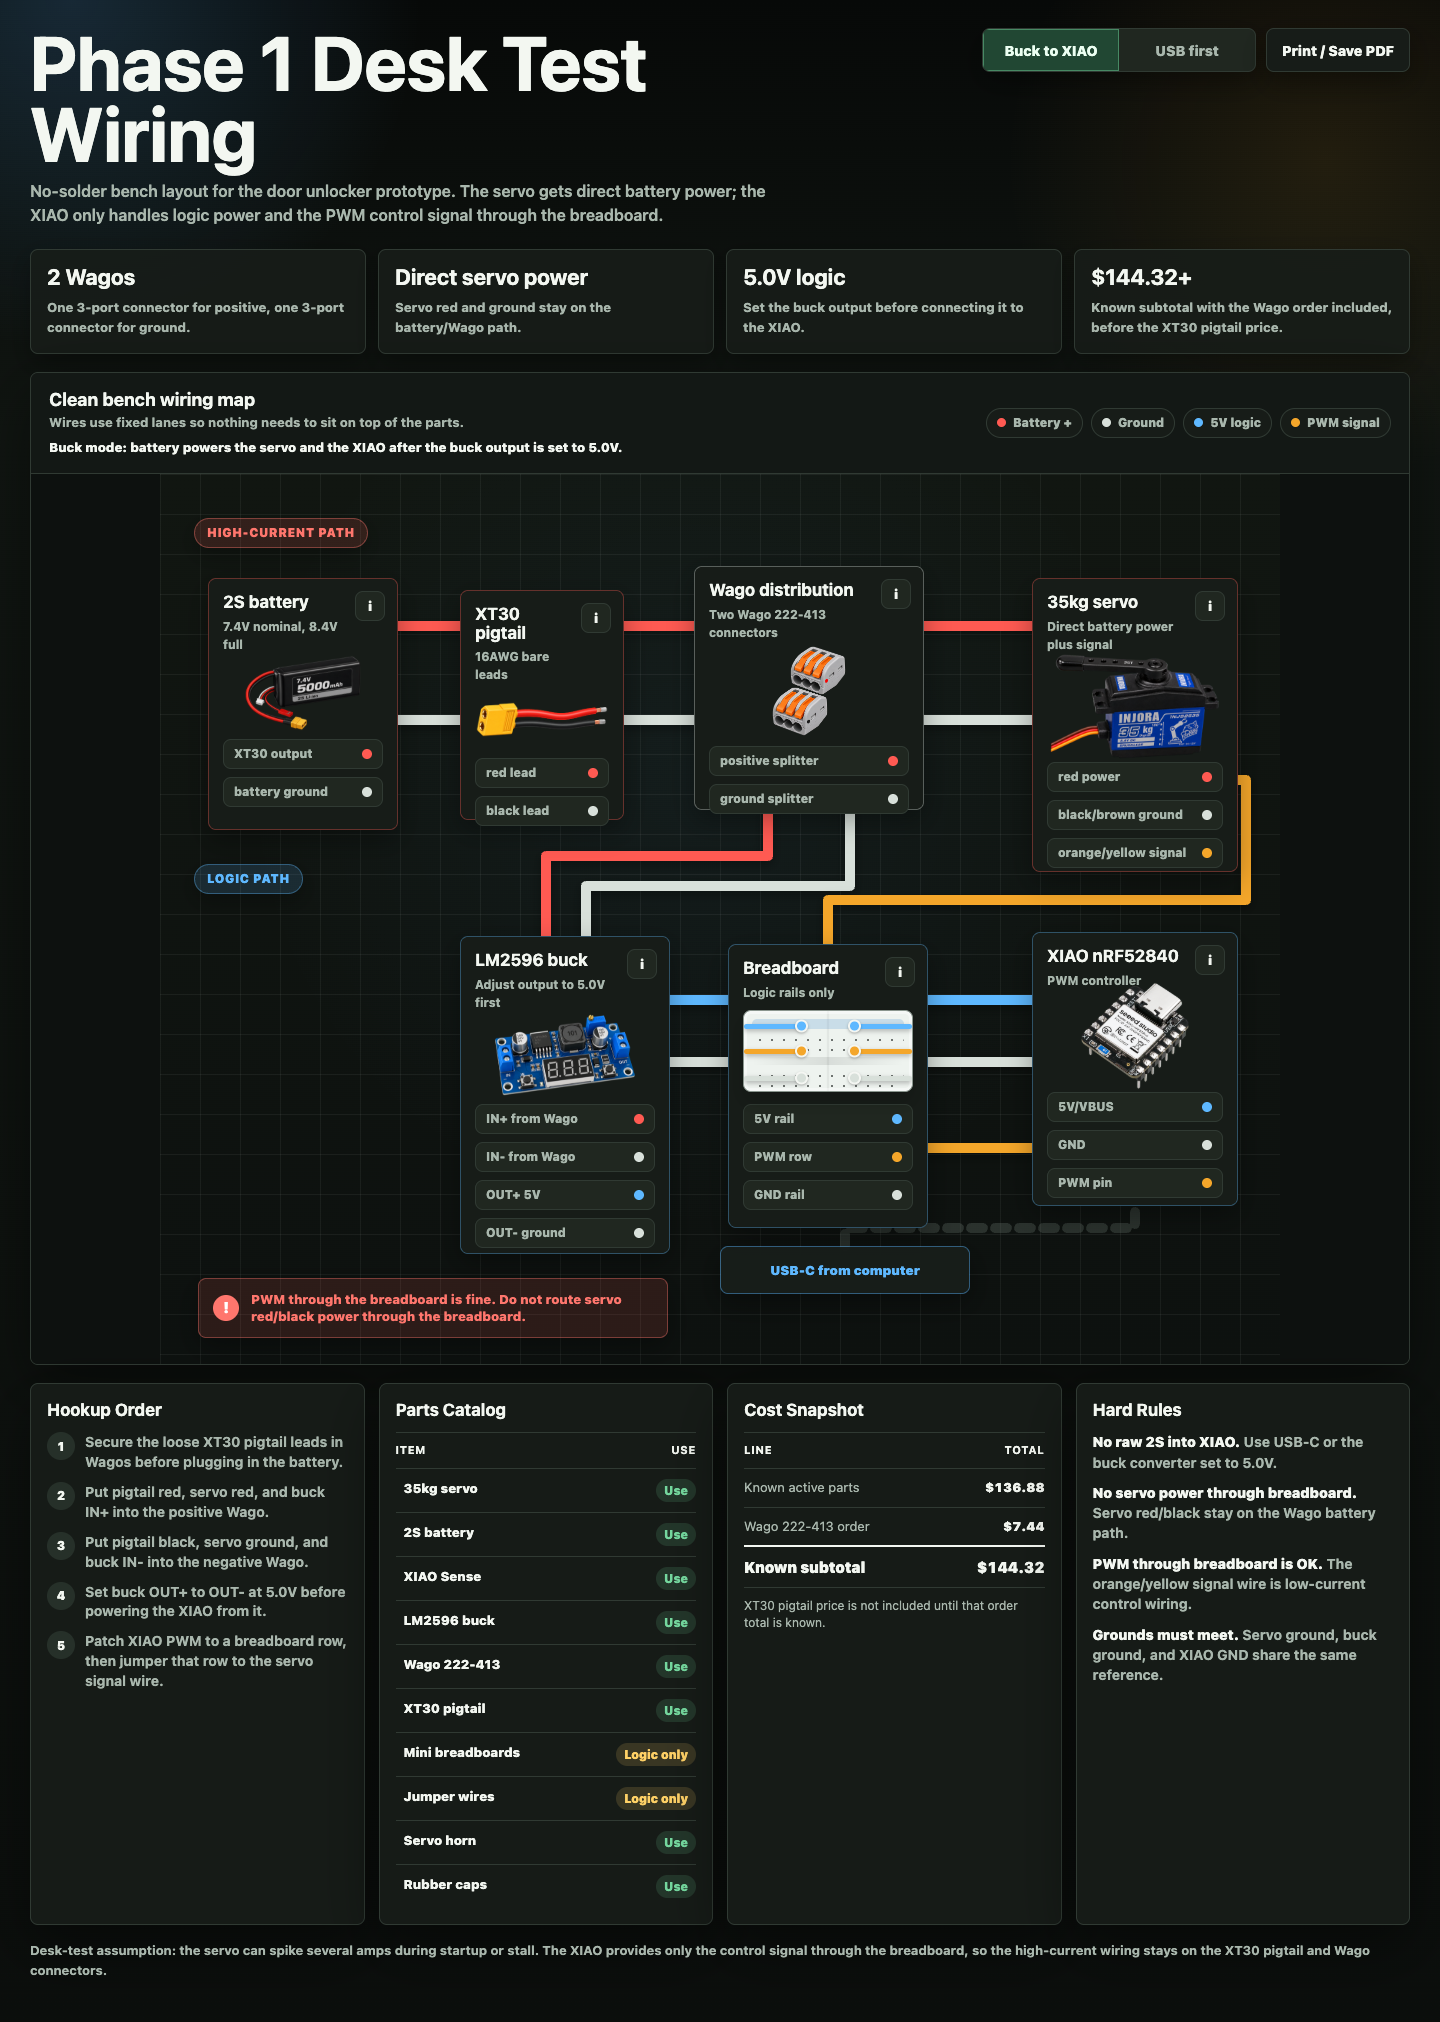
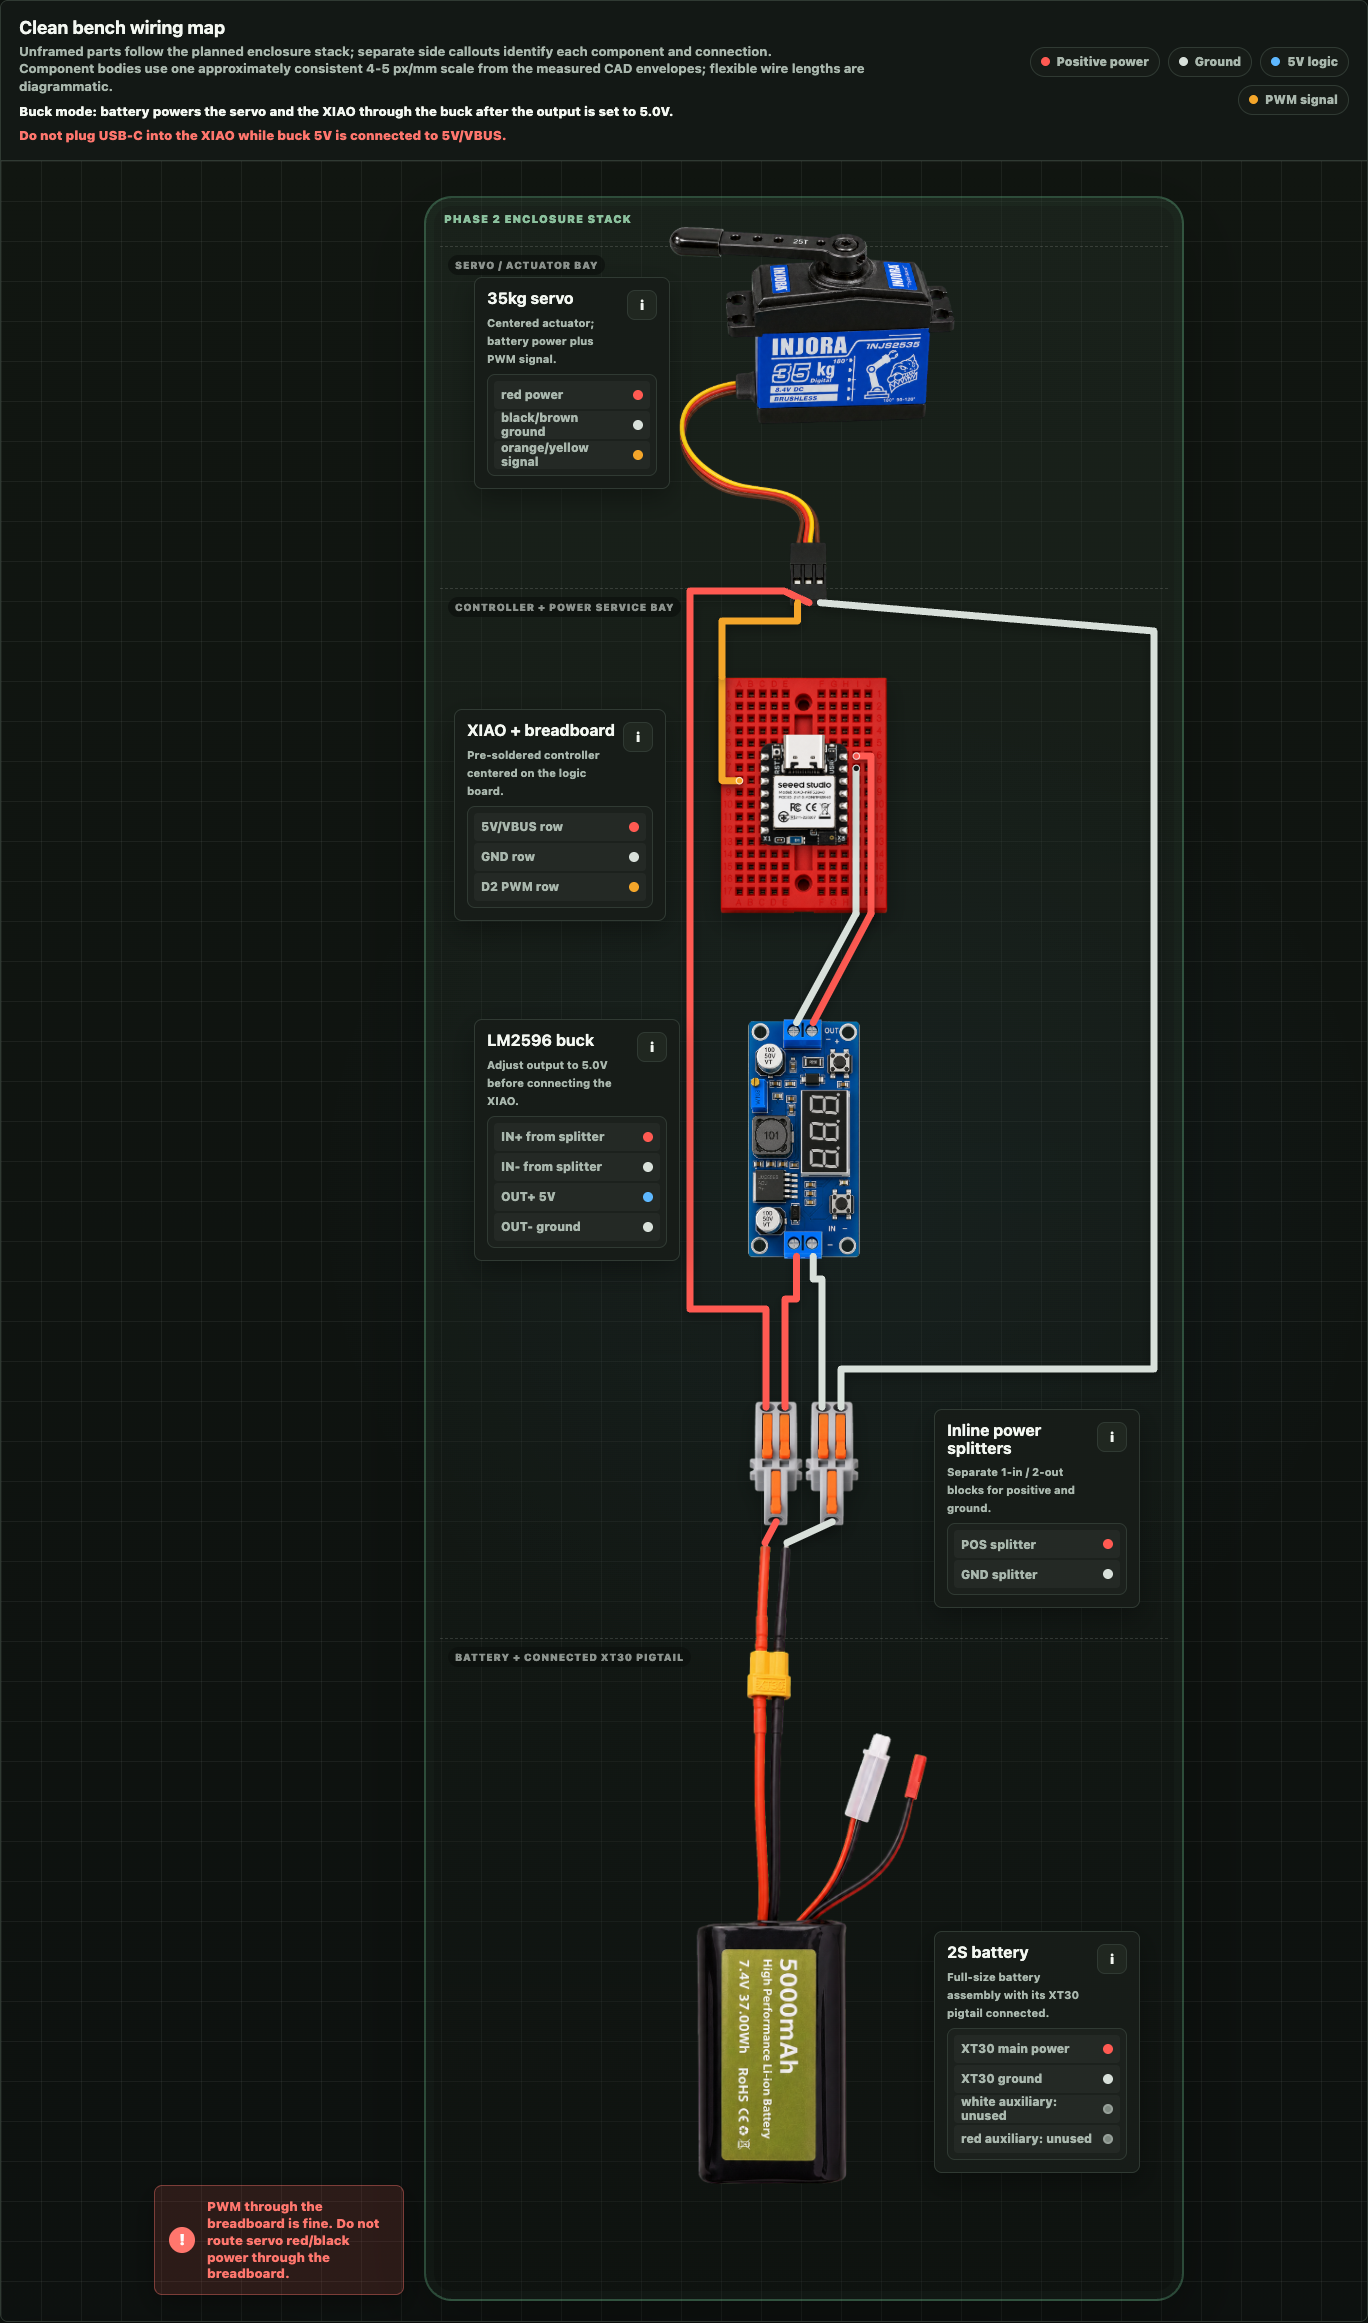
Refine bench power splitter routing

diff --git a/phase-1-desk-test-wiring.html b/phase-1-desk-test-wiring.html
@@ -378,14 +378,6 @@
       filter: none;
     }
 
-    .wire-bridge-underlay {
-      fill: none;
-      stroke: #101712;
-      stroke-width: 15;
-      stroke-linecap: round;
-      pointer-events: none;
-    }
-
     .stage.has-active .wire {
       opacity: .18;
       filter: none;
@@ -581,18 +573,18 @@
 
     .splitter-card {
       top: 1165px;
-      width: 96px;
+      width: 56px;
       height: 274px;
       border-color: rgba(216,224,218,.34);
     }
 
     .positive-splitter-card {
-      left: 582px;
+      left: 624px;
       border-color: rgba(255,90,82,.34);
     }
 
     .ground-splitter-card {
-      left: 682px;
+      left: 680px;
     }
 
     .servo-card {
@@ -664,7 +656,7 @@
 
     .buck-visual {
       width: auto;
-      height: 308px;
+      height: 285px;
       margin: 0 auto;
     }
 
@@ -2107,7 +2099,7 @@
 
             <svg viewBox="0 0 1120 2160" role="img" aria-labelledby="diagramTitle diagramDesc">
               <title id="diagramTitle">No-solder desk test wiring arranged like the planned enclosure</title>
-              <desc id="diagramDesc">The physical layout forms one centered vertical chain: servo, XIAO on its breadboard, LM2596 buck, paired inline splitters, and a slide-out battery with its XT30 pigtail already connected. The pigtail's red and black leads enter the splitters directly. The splitters feed the servo through a dedicated right-side trunk and, in buck mode, feed the buck directly above them. The buck feeds the controller immediately above it while USB-C is unplugged. In USB-first mode, USB-C powers the XIAO, the buck is skipped, and splitter ground continues to the controller. PWM leaves the breadboard assembly on the left and travels upward to the servo. Component bodies are shown at one approximately consistent real-size scale; flexible lead lengths are diagrammatic.</desc>
+              <desc id="diagramDesc">The physical layout forms one centered vertical chain: servo, XIAO on its breadboard, LM2596 buck, a physically joined but electrically separate inline splitter pair, and a slide-out battery with its XT30 pigtail already connected. The pigtail's red and black leads enter the splitter bottoms directly. The positive splitter's right output takes the short branch to the buck, while its left output routes around the buck's left side to the servo without crossing another wire. The buck feeds the controller immediately above it while USB-C is unplugged. In USB-first mode, USB-C powers the XIAO, the buck is skipped, and splitter ground continues to the controller. PWM leaves the breadboard assembly on the left and travels upward to the servo. Component bodies are shown at one approximately consistent real-size scale; flexible lead lengths are diagrammatic.</desc>
 
               <path id="xt30PositiveWire" class="wire red" data-parts="battery splitter-positive" />
               <path id="xt30GroundWire" class="wire ground" data-parts="battery splitter-ground" />
@@ -2120,8 +2112,6 @@
               <path id="usbGroundWire" class="wire ground usb-ground-wire muted" data-parts="splitter-ground controller" />
               <path id="controllerSignalWire" class="wire signal" data-parts="controller servo" />
               <path id="usbControllerWire" class="wire logic usb-wire muted" data-parts="usb controller" />
-              <path class="wire-bridge-underlay" data-wire-bridge="servo-positive" aria-hidden="true" />
-              <path class="wire red wire-bridge" data-wire-bridge-color="servo-positive" data-parts="splitter-positive servo" aria-hidden="true" />
             </svg>
 
             <article class="component battery-card power" data-node="battery" tabindex="0" aria-label="2S battery">
@@ -2970,8 +2960,6 @@
       xt30Positive: document.getElementById("xt30PositiveWire"),
       xt30Ground: document.getElementById("xt30GroundWire"),
       servoPositive: document.getElementById("servoPositiveWire"),
-      servoPositiveBridgeUnderlay: document.querySelector('[data-wire-bridge="servo-positive"]'),
-      servoPositiveBridge: document.querySelector('[data-wire-bridge-color="servo-positive"]'),
       servoGround: document.getElementById("servoGroundWire"),
       buckInputPositive: document.getElementById("buckInputPositiveWire"),
       buckInputGround: document.getElementById("buckInputGroundWire"),
@@ -3009,12 +2997,11 @@
       const batteryPigtailGround = point(batteryRect, 0.465, 0.016);
       const positiveInput = point(positiveSplitterRect, 0.504, 0.963);
       const groundInput = point(groundSplitterRect, 0.504, 0.963);
-      const batteryLeadMidY = Math.min(batteryPigtailRed[1], positiveInput[1]) - 12;
-      wiringPaths.xt30Positive.setAttribute("d", `M${pathPoint(batteryPigtailRed)} V${batteryLeadMidY.toFixed(1)} H${positiveInput[0].toFixed(1)} V${positiveInput[1].toFixed(1)}`);
-      wiringPaths.xt30Ground.setAttribute("d", `M${pathPoint(batteryPigtailGround)} V${(batteryLeadMidY - 18).toFixed(1)} H${groundInput[0].toFixed(1)} V${groundInput[1].toFixed(1)}`);
+      wiringPaths.xt30Positive.setAttribute("d", `M${pathPoint(batteryPigtailRed)} L${pathPoint(positiveInput)}`);
+      wiringPaths.xt30Ground.setAttribute("d", `M${pathPoint(batteryPigtailGround)} L${pathPoint(groundInput)}`);
 
-      const positiveOutputBuck = point(positiveSplitterRect, 0.319, 0.061);
-      const positiveOutputServo = point(positiveSplitterRect, 0.662, 0.061);
+      const positiveOutputServo = point(positiveSplitterRect, 0.319, 0.061);
+      const positiveOutputBuck = point(positiveSplitterRect, 0.662, 0.061);
       const groundOutputBuck = point(groundSplitterRect, 0.319, 0.061);
       const groundOutputServo = point(groundSplitterRect, 0.662, 0.061);
       const buckInputPositive = point(buckRect, 0.46, 0.91);
@@ -3025,10 +3012,7 @@
       const servoSignal = point(servoRect, 0.479, 0.895);
       const servoRed = point(servoRect, 0.517, 0.895);
       const servoGround = point(servoRect, 0.553, 0.895);
-      wiringPaths.servoPositive.setAttribute("d", `M${pathPoint(positiveOutputServo)} V1155 H1010 V470 L${pathPoint(servoRed)}`);
-      const servoBridge = `M${(groundOutputBuck[0] - 12).toFixed(1)} 1155 H${(groundOutputBuck[0] + 12).toFixed(1)}`;
-      wiringPaths.servoPositiveBridgeUnderlay.setAttribute("d", servoBridge);
-      wiringPaths.servoPositiveBridge.setAttribute("d", servoBridge);
+      wiringPaths.servoPositive.setAttribute("d", `M${pathPoint(positiveOutputServo)} V1148 H566 V430 H660 L${pathPoint(servoRed)}`);
       wiringPaths.servoGround.setAttribute("d", `M${pathPoint(groundOutputServo)} V1208 H1030 V470 L${pathPoint(servoGround)}`);
 
       const controllerPower = assemblyPoint(151, 1);
@@ -3046,8 +3030,7 @@
       const usbMidY = (usbSource[1] + controllerUsb[1]) / 2;
       wiringPaths.usbController.setAttribute("d", `M${pathPoint(usbSource)} V${usbMidY.toFixed(1)} H${controllerUsb[0].toFixed(1)} V${controllerUsb[1].toFixed(1)}`);
 
-      const usbGroundDropY = groundOutputBuck[1] + 34;
-      wiringPaths.usbGround.setAttribute("d", `M${pathPoint(groundOutputBuck)} V${usbGroundDropY.toFixed(1)} H560 V${(controllerGround[1] + 24).toFixed(1)} H${controllerGround[0].toFixed(1)} V${controllerGround[1].toFixed(1)}`);
+      wiringPaths.usbGround.setAttribute("d", `M${pathPoint(groundOutputBuck)} V${(controllerGround[1] + 24).toFixed(1)} H${controllerGround[0].toFixed(1)} V${controllerGround[1].toFixed(1)}`);
     }
 
     let wiringGeometryFrame = 0;

diff --git a/script/check_bench_wiring_paths.py b/script/check_bench_wiring_paths.py
@@ -56,7 +56,6 @@ class WireParser(HTMLParser):
     def __init__(self) -> None:
         super().__init__()
         self.paths: list[WirePath] = []
-        self.bridges: list[WirePath] = []
 
     def handle_starttag(self, tag: str, attrs: list[tuple[str, str | None]]) -> None:
         if tag != "path":
@@ -67,11 +66,10 @@ class WireParser(HTMLParser):
             return
         if not values.get("d"):
             raise AssertionError(f"Runtime wire path {values.get('id', 'unlabeled')} has no geometry")
-        path = WirePath(values.get("data-parts", "unlabeled"), classes, values["d"])
         if "wire-bridge" in classes:
-            self.bridges.append(path)
-        else:
-            self.paths.append(path)
+            raise AssertionError("Bench map should not contain an intentional wire-crossing bridge")
+        path = WirePath(values.get("data-parts", "unlabeled"), classes, values["d"])
+        self.paths.append(path)
 
 
 def segments_for(path: WirePath) -> list[Segment]:
@@ -147,20 +145,7 @@ def intersection_point(first: Segment, second: Segment) -> tuple[float, float] |
     return x, y
 
 
-def bridge_covers(bridges: list[WirePath], wire: WirePath, x: float, y: float) -> bool:
-    for bridge in bridges:
-        if bridge.label != wire.label:
-            continue
-        for segment in segments_for(bridge):
-            if (
-                segment.min_x - 0.1 <= x <= segment.max_x + 0.1
-                and segment.min_y - 0.1 <= y <= segment.max_y + 0.1
-            ):
-                return True
-    return False
-
-
-def issues_for_mode(paths: list[WirePath], bridges: list[WirePath], mode: str) -> list[str]:
+def issues_for_mode(paths: list[WirePath], mode: str) -> list[str]:
     segments = [segment for path in paths if visible(path, mode) for segment in segments_for(path)]
     issues: list[str] = []
     for index, first in enumerate(segments):
@@ -188,11 +173,7 @@ def issues_for_mode(paths: list[WirePath], bridges: list[WirePath], mode: str) -
             intersection = intersection_point(first, second)
             if intersection:
                 x, y = intersection
-                if not (
-                    bridge_covers(bridges, first.wire, x, y)
-                    or bridge_covers(bridges, second.wire, x, y)
-                ):
-                    issues.append(f"wire crossing: {pair} at ({x:g}, {y:g})")
+                issues.append(f"wire crossing: {pair} at ({x:g}, {y:g})")
     return sorted(set(issues))
 
 
@@ -204,7 +185,7 @@ def main() -> int:
 
     failures: list[str] = []
     for mode in ("buck", "usb"):
-        issues = issues_for_mode(parser.paths, parser.bridges, mode)
+        issues = issues_for_mode(parser.paths, mode)
         print(f"{mode} mode: {len(parser.paths) - sum(not visible(path, mode) for path in parser.paths)} visible paths")
         if issues:
             failures.extend(f"{mode}: {issue}" for issue in issues)
@@ -213,9 +194,7 @@ def main() -> int:
 
     if failures:
         raise AssertionError("\n".join(failures))
-    if not parser.bridges:
-        raise AssertionError("Intentional wire crossing has no rendered bridge marker")
-    print(f"- {len(parser.bridges)} intentional crossing bridge rendered")
+    print("- no intentional crossing bridges required")
     print("Bench wiring path validation: PASS")
     return 0
 

diff --git a/script/check_phase2_html_model.py b/script/check_phase2_html_model.py
@@ -5,6 +5,7 @@ from __future__ import annotations
 
 import json
 import math
+import re
 from pathlib import Path
 
 
@@ -20,6 +21,14 @@ def require(condition: bool, message: str) -> None:
 
 def overlaps(first_min: float, first_max: float, second_min: float, second_max: float) -> bool:
     return first_min < second_max and first_max > second_min
+
+
+def css_px(html: str, selector: str, property_name: str) -> float:
+    block = re.search(rf"{re.escape(selector)}\s*\{{(?P<body>.*?)\}}", html, re.DOTALL)
+    require(block is not None, f"missing CSS selector {selector}")
+    value = re.search(rf"{re.escape(property_name)}:\s*([\d.]+)px", block.group("body"))
+    require(value is not None, f"missing {property_name} in {selector}")
+    return float(value.group(1))
 
 
 def main() -> int:
@@ -110,6 +119,19 @@ def main() -> int:
     )
     require("B0B28GYYL2" in html, "purchased inline splitter listing is missing")
 
+    # Hard-body visuals share the documented approximate 4-5 px/mm scale.
+    # Harness leads and the servo arm intentionally extend beyond their component bodies.
+    visual_scales = {
+        "buck height": css_px(html, ".buck-visual", "height") / buck["width"],
+        "splitter length": css_px(html, ".splitter-visual", "height") / splitters["single_width"],
+        "splitter width": css_px(html, ".splitter-visual", "width") / splitters["single_depth"],
+        "breadboard height": 237 / components["mini_breadboard_170_point"]["height"],
+    }
+    require(
+        all(3.9 <= scale <= 5.1 for scale in visual_scales.values()),
+        f"bench component visual scale drifted: {visual_scales}",
+    )
+
     require(wire_routing["length"] == 83, "wire-routing channel length drifted")
     require(len(wire_routing["lanes"]) == 10, "wire-routing model must keep ten dedicated lanes")
     require(
@@ -133,6 +155,7 @@ def main() -> int:
     print(f"- Dovetail head: {computed_head:.4f} mm; capture overlap retained")
     print("- Four Command strip pairs fit the documented plate footprint")
     print("- Purchased inline splitter pair matches the 32 x 13.5 x 13mm model contract")
+    print("- Representative hard-body visuals remain within the documented 4-5 px/mm scale")
     print("- Ten dedicated rear-wall wire lanes map one-to-one to the complete harness")
     print("- Bench wiring parts and print view use the 1120 x 2160 enclosure-stack layout")
     print("- Lower solar panel clears the servo; upper panel collision remains explicitly modeled")

diff --git a/script/check_splitter_card_alignment.py b/script/check_splitter_card_alignment.py
@@ -1,5 +1,5 @@
 #!/usr/bin/env python3
-"""Verify the separated splitter cards remain aligned to their three wire anchors."""
+"""Verify the joined splitter pair remains aligned to its wire anchors."""
 
 from __future__ import annotations
 
@@ -38,14 +38,14 @@ def main() -> int:
         'data-node="splitter-ground"',
         'const positiveInput = point(positiveSplitterRect, 0.504, 0.963)',
         'const groundInput = point(groundSplitterRect, 0.504, 0.963)',
-        'const positiveOutputBuck = point(positiveSplitterRect, 0.319, 0.061)',
-        'const positiveOutputServo = point(positiveSplitterRect, 0.662, 0.061)',
+        'const positiveOutputServo = point(positiveSplitterRect, 0.319, 0.061)',
+        'const positiveOutputBuck = point(positiveSplitterRect, 0.662, 0.061)',
         'const groundOutputBuck = point(groundSplitterRect, 0.319, 0.061)',
         'const groundOutputServo = point(groundSplitterRect, 0.662, 0.061)',
     )
     for marker in required:
         if marker not in HTML:
-            raise AssertionError(f"Missing separated splitter marker: {marker}")
+            raise AssertionError(f"Missing joined splitter marker: {marker}")
 
     for path_id in (
         "xt30PositiveWire",
@@ -65,18 +65,18 @@ def main() -> int:
     ground_left = css_value(".ground-splitter-card", "left")
     positive_right = positive_left + card_width
     gap = ground_left - positive_right
-    if gap != 4:
-        raise AssertionError(f"Expected a 4px splitter-card gap, found {gap:g}px")
+    if gap != 0:
+        raise AssertionError(f"Expected joined splitter bodies with a 0px gap, found {gap:g}px")
 
     # Port centers measured from the generated 529px-wide straight splitter asset.
     output_left_ratio = 0.319
     output_right_ratio = 0.662
     input_ratio = 0.504
 
-    print("Separated splitter alignment")
+    print("Joined splitter alignment")
     for name, card_left, center in (
-        ("positive", positive_left, 630.0),
-        ("ground", ground_left, 730.0),
+        ("positive", positive_left, 652.0),
+        ("ground", ground_left, 708.0),
     ):
         image_left = card_left + (card_width - image_width) / 2
         close(f"{name} card center", card_left + card_width / 2, center)
@@ -85,7 +85,8 @@ def main() -> int:
         close(f"{name} bottom input", image_left + input_ratio * image_width, center)
 
     print(f"- card gap: {gap:g}px")
-    print("Separated splitter alignment: PASS")
+    close("visible body join", positive_left + image_width, ground_left)
+    print("Joined splitter alignment: PASS")
     return 0
 
 